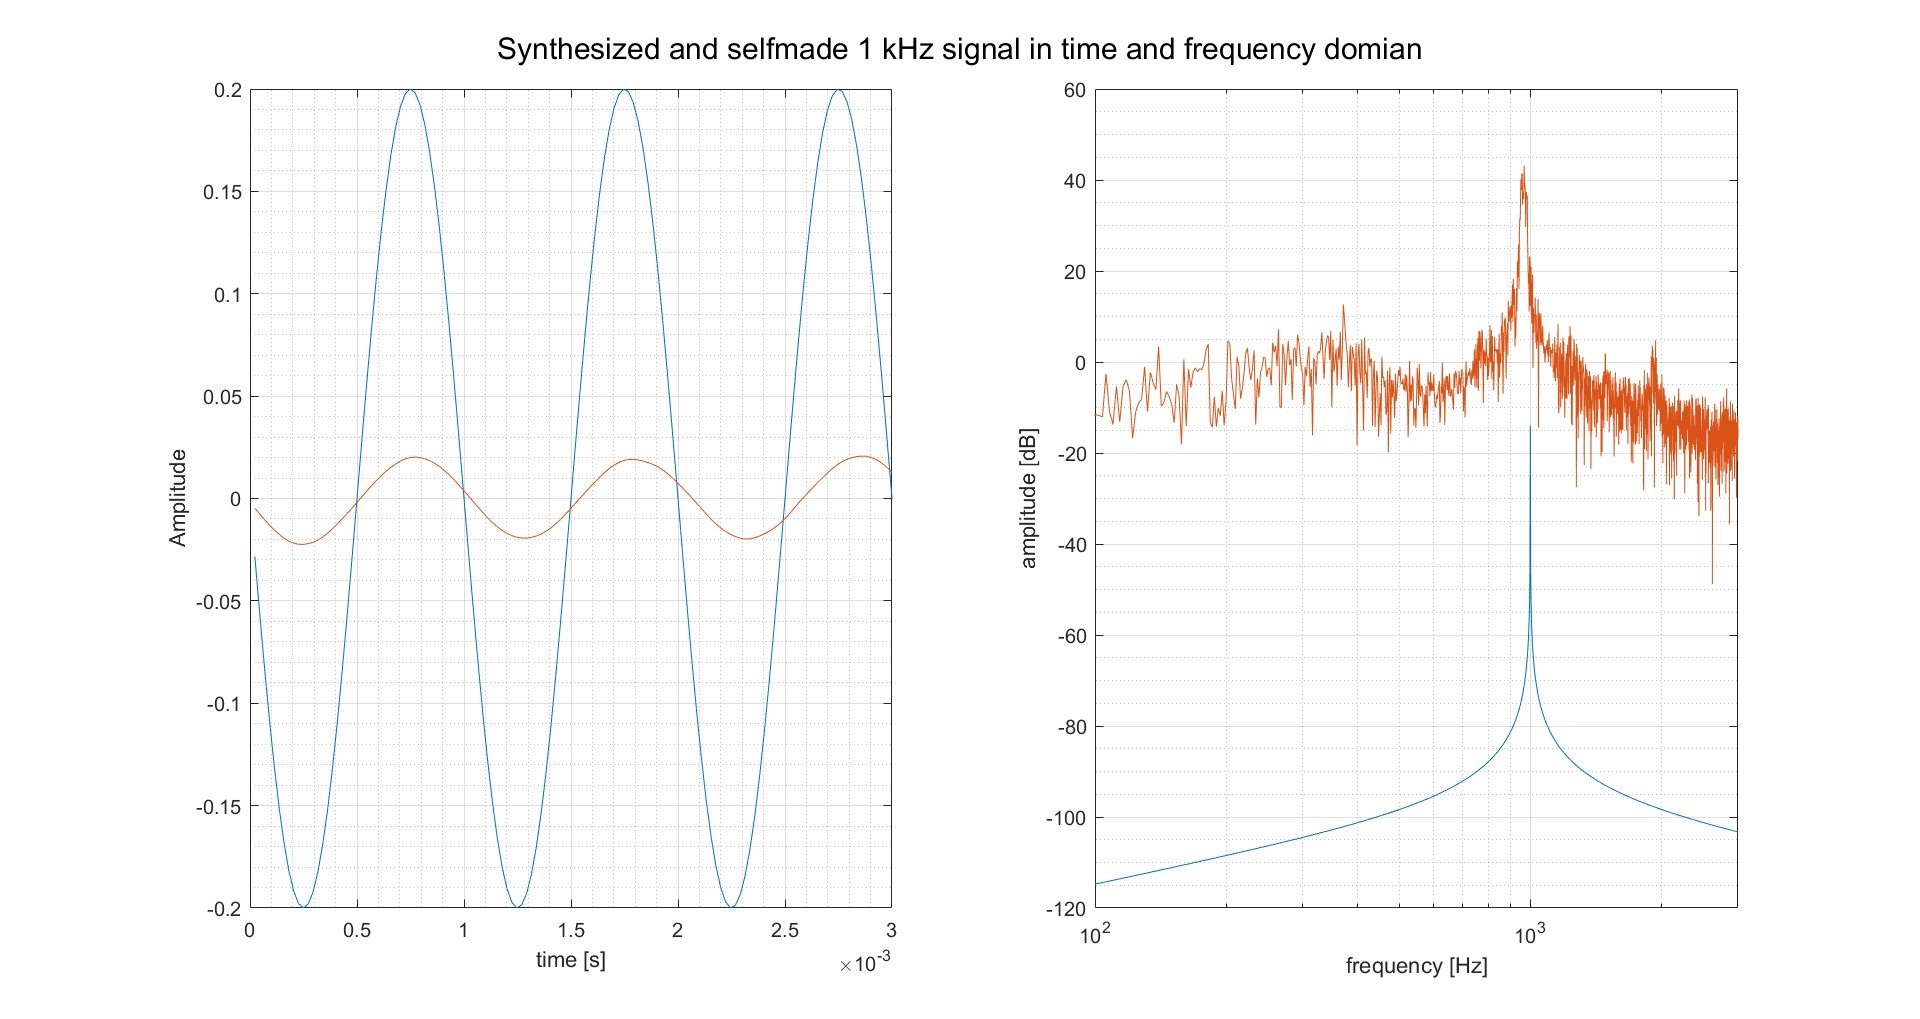
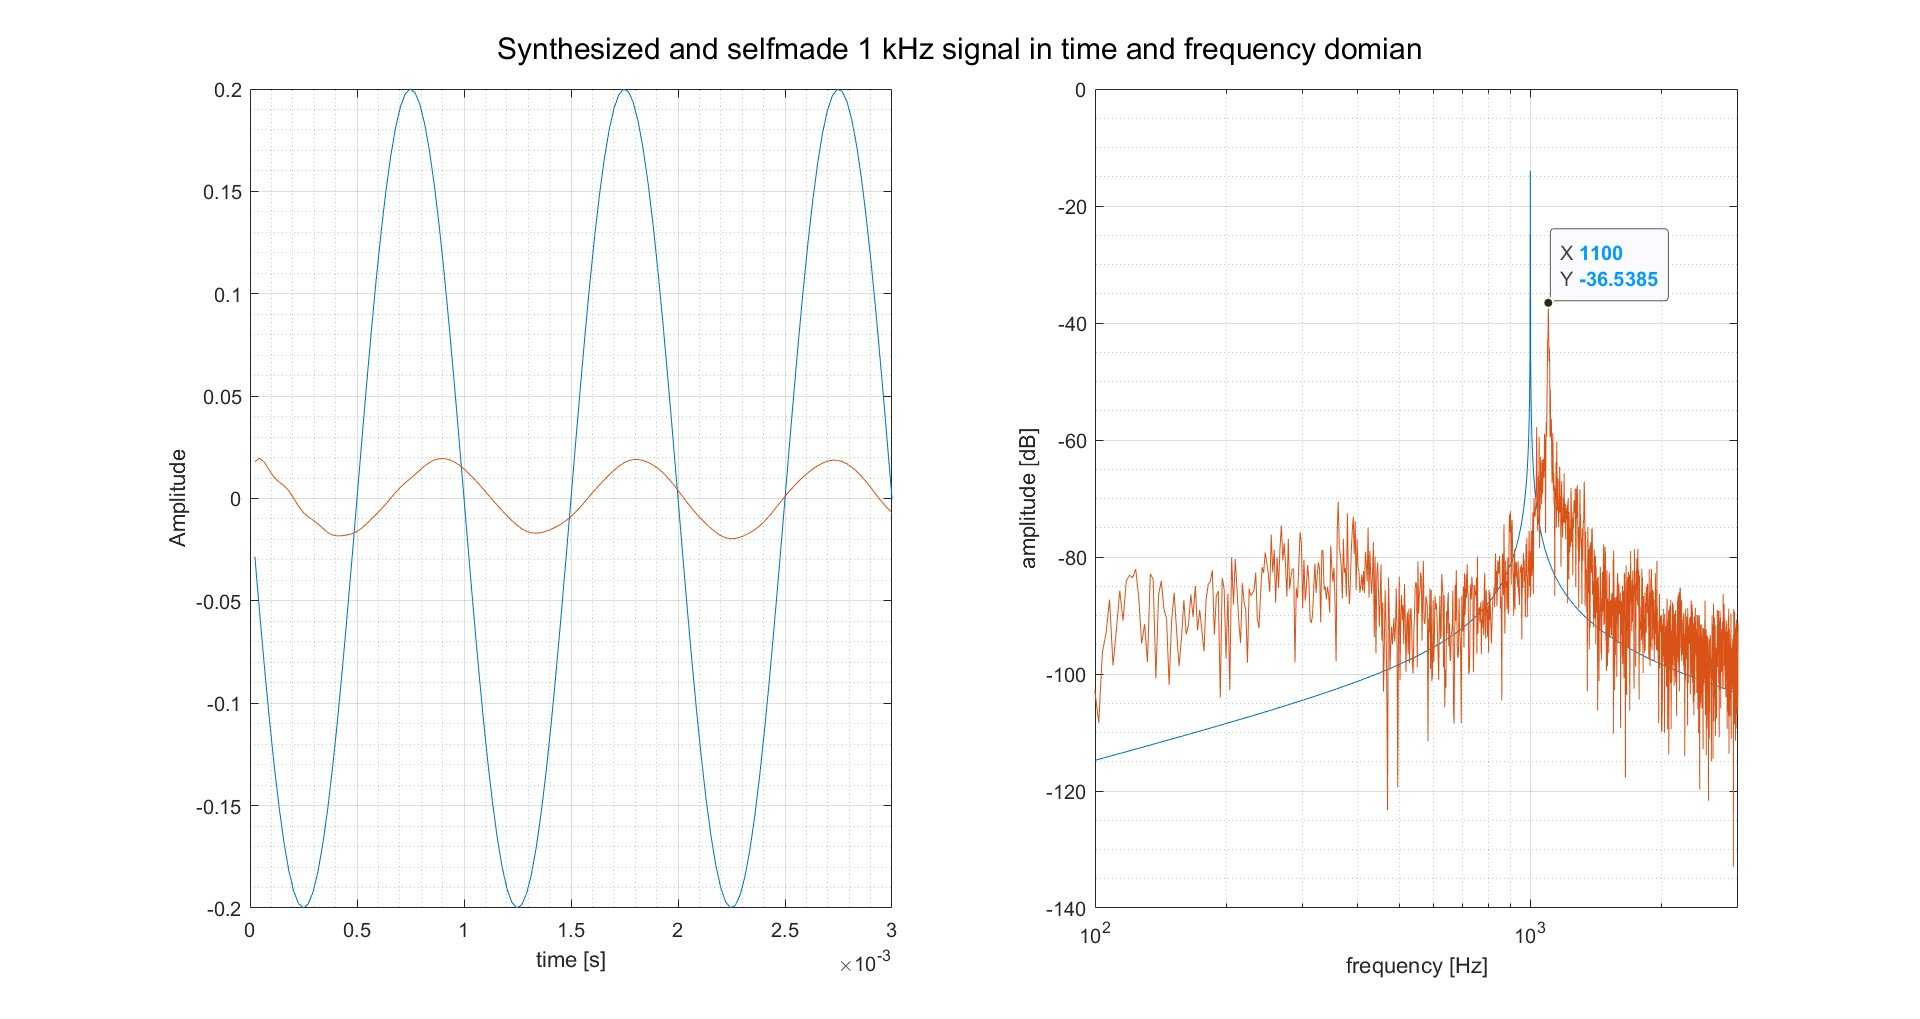
new plot, file with audiorecording, and changes to main file

diff --git a/Assignment_1.m b/Assignment_1.m
@@ -13,6 +13,9 @@ disp("Begin speaking.")
 recordblocking(recObj,recDuration);
 disp("End of recording.")
 audio_Recording = (getaudiodata(recObj));
+%save("audio","audio_Recording") %% commented out to not overwrite the file
+% For the person grading: while doing the assignment I used the
+% "audio_Recording" variable. but can be loaded from audio.mat.
 
 %% PLotting the synthesized and selfmade signal
 figure(1)
@@ -55,7 +58,7 @@ freq = freq(:);
 id = find(freq >= 3000, 1); %Find the index where the frequency is equal to 3000.
 
 subplot(1,2,2)
-semilogx(freq(1:id), 20*log10(abs(y(1:id))))
+semilogx(freq(1:id), 20*log10(2*abs(Y(1:id))))
 xlim([100 3000])
 xlabel("frequency [Hz]")
 ylabel("amplitude [dB]")
